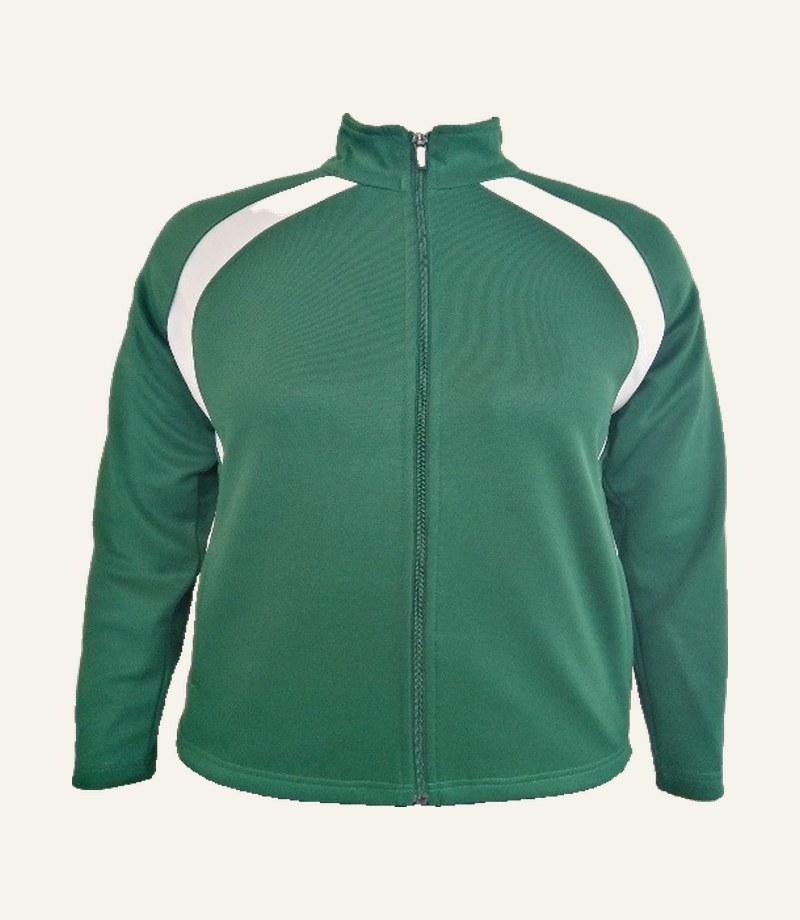
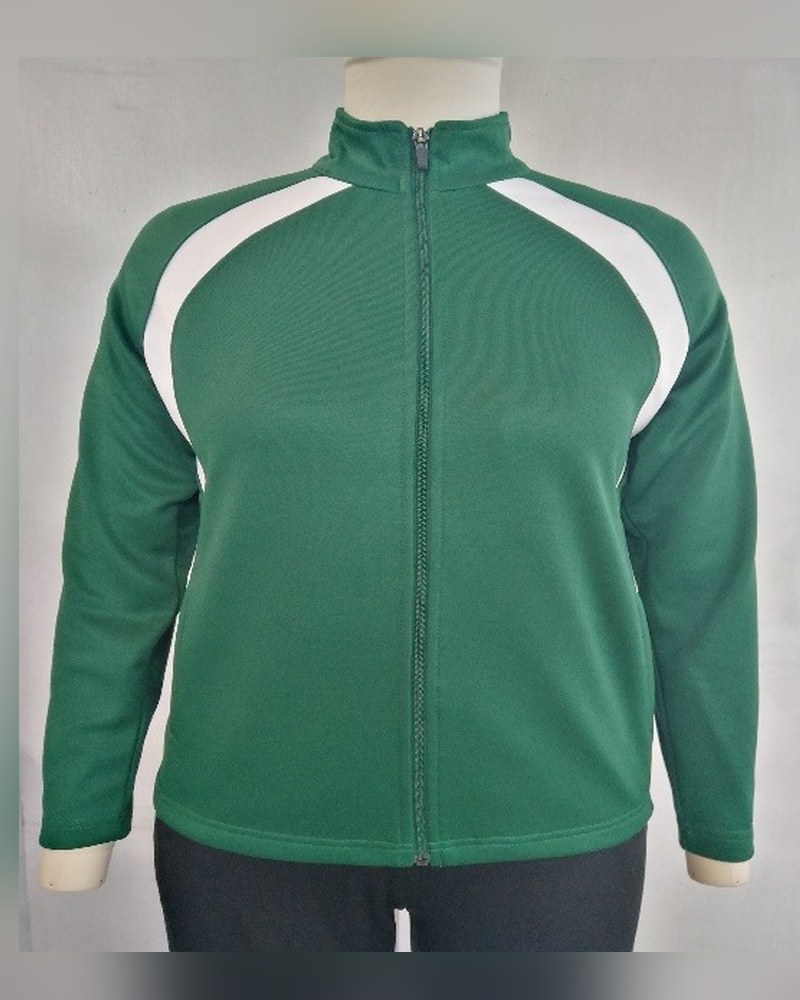
Show product photos as shot in a consistent 4:5 frame instead of cut-outs

diff --git a/products.html b/products.html
@@ -78,26 +78,26 @@
       <button class="fbtn" data-f="wovens">Light wovens</button>
     </div>
     <div class="pgrid rv" id="pgrid">
-      <div class="pcard" data-cat="polos"><div class="pimg"><img src="images/product-01.jpg" width="800" height="920" alt="Tropical print polo" data-cap="Tropical print polo" loading="lazy" decoding="async"></div><h3>Tropical print polo</h3><small>Polos</small></div>
-      <div class="pcard" data-cat="tops"><div class="pimg"><img src="images/product-02.jpg" width="800" height="920" alt="V-neck tee" data-cap="V-neck tee" loading="lazy" decoding="async"></div><h3>V-neck tee</h3><small>Tops & tees</small></div>
-      <div class="pcard" data-cat="fleece"><div class="pimg"><img src="images/product-03.jpg" width="800" height="920" alt="Full-zip training jacket" data-cap="Full-zip training jacket" loading="lazy" decoding="async"></div><h3>Full-zip training jacket</h3><small>Fleece & outerwear</small></div>
-      <div class="pcard" data-cat="leggings"><div class="pimg"><img src="images/product-04.jpg" width="800" height="920" alt="Red training legging" data-cap="Red training legging" loading="lazy" decoding="async"></div><h3>Red training legging</h3><small>Leggings</small></div>
-      <div class="pcard" data-cat="shorts"><div class="pimg"><img src="images/product-05.jpg" width="800" height="920" alt="Mesh basketball short" data-cap="Mesh basketball short" loading="lazy" decoding="async"></div><h3>Mesh basketball short</h3><small>Shorts</small></div>
-      <div class="pcard" data-cat="swimwear"><div class="pimg"><img src="images/product-06.jpg" width="800" height="920" alt="One-piece swimsuit" data-cap="One-piece swimsuit" loading="lazy" decoding="async"></div><h3>One-piece swimsuit</h3><small>Swimwear</small></div>
-      <div class="pcard" data-cat="polos"><div class="pimg"><img src="images/product-07.jpg" width="800" height="920" alt="Navy tropical polo" data-cap="Navy tropical polo" loading="lazy" decoding="async"></div><h3>Navy tropical polo</h3><small>Polos</small></div>
-      <div class="pcard" data-cat="polos"><div class="pimg"><img src="images/product-08.jpg" width="800" height="920" alt="Women's piqué polo" data-cap="Women's piqué polo" loading="lazy" decoding="async"></div><h3>Women's piqué polo</h3><small>Polos</small></div>
-      <div class="pcard" data-cat="polos"><div class="pimg"><img src="images/product-09.jpg" width="800" height="920" alt="Heather jersey polo" data-cap="Heather jersey polo" loading="lazy" decoding="async"></div><h3>Heather jersey polo</h3><small>Polos</small></div>
-      <div class="pcard" data-cat="tops"><div class="pimg"><img src="images/product-10.jpg" width="800" height="920" alt="Raglan tee" data-cap="Raglan tee" loading="lazy" decoding="async"></div><h3>Raglan tee</h3><small>Tops & tees</small></div>
-      <div class="pcard" data-cat="tops"><div class="pimg"><img src="images/product-11.jpg" width="800" height="920" alt="Henley pullover" data-cap="Henley pullover" loading="lazy" decoding="async"></div><h3>Henley pullover</h3><small>Tops & tees</small></div>
-      <div class="pcard" data-cat="fleece"><div class="pimg"><img src="images/product-12.jpg" width="800" height="920" alt="Quarter-zip sweatshirt" data-cap="Quarter-zip sweatshirt" loading="lazy" decoding="async"></div><h3>Quarter-zip sweatshirt</h3><small>Fleece & outerwear</small></div>
-      <div class="pcard" data-cat="fleece"><div class="pimg"><img src="images/product-13.jpg" width="800" height="920" alt="Track jacket" data-cap="Track jacket" loading="lazy" decoding="async"></div><h3>Track jacket</h3><small>Fleece & outerwear</small></div>
-      <div class="pcard" data-cat="fleece"><div class="pimg"><img src="images/product-14.jpg" width="800" height="920" alt="Sherpa quarter-zip" data-cap="Sherpa quarter-zip" loading="lazy" decoding="async"></div><h3>Sherpa quarter-zip</h3><small>Fleece & outerwear</small></div>
-      <div class="pcard" data-cat="leggings"><div class="pimg"><img src="images/product-15.jpg" width="800" height="920" alt="Printed capri legging" data-cap="Printed capri legging" loading="lazy" decoding="async"></div><h3>Printed capri legging</h3><small>Leggings</small></div>
-      <div class="pcard" data-cat="leggings"><div class="pimg"><img src="images/product-16.jpg" width="800" height="920" alt="Heather legging" data-cap="Heather legging" loading="lazy" decoding="async"></div><h3>Heather legging</h3><small>Leggings</small></div>
-      <div class="pcard" data-cat="shorts"><div class="pimg"><img src="images/product-17.jpg" width="800" height="920" alt="Printed training short" data-cap="Printed training short" loading="lazy" decoding="async"></div><h3>Printed training short</h3><small>Shorts</small></div>
-      <div class="pcard" data-cat="swimwear"><div class="pimg"><img src="images/product-18.jpg" width="800" height="920" alt="Printed rash guard" data-cap="Printed rash guard" loading="lazy" decoding="async"></div><h3>Printed rash guard</h3><small>Swimwear</small></div>
-      <div class="pcard" data-cat="wovens"><div class="pimg"><img src="images/product-19.jpg" width="800" height="920" alt="Short-sleeve woven shirt" data-cap="Short-sleeve woven shirt" loading="lazy" decoding="async"></div><h3>Short-sleeve woven shirt</h3><small>Light wovens</small></div>
-      <div class="pcard" data-cat="wovens"><div class="pimg"><img src="images/product-20.jpg" width="800" height="920" alt="Woven short" data-cap="Woven short" loading="lazy" decoding="async"></div><h3>Woven short</h3><small>Light wovens</small></div>
+      <div class="pcard" data-cat="polos"><div class="pimg"><img src="images/product-01.jpg" width="800" height="1000" alt="Tropical print polo" data-cap="Tropical print polo" loading="lazy" decoding="async"></div><h3>Tropical print polo</h3><small>Polos</small></div>
+      <div class="pcard" data-cat="tops"><div class="pimg"><img src="images/product-02.jpg" width="800" height="1000" alt="V-neck tee" data-cap="V-neck tee" loading="lazy" decoding="async"></div><h3>V-neck tee</h3><small>Tops & tees</small></div>
+      <div class="pcard" data-cat="fleece"><div class="pimg"><img src="images/product-03.jpg" width="800" height="1000" alt="Full-zip training jacket" data-cap="Full-zip training jacket" loading="lazy" decoding="async"></div><h3>Full-zip training jacket</h3><small>Fleece & outerwear</small></div>
+      <div class="pcard" data-cat="leggings"><div class="pimg"><img src="images/product-04.jpg" width="800" height="1000" alt="Red training legging" data-cap="Red training legging" loading="lazy" decoding="async"></div><h3>Red training legging</h3><small>Leggings</small></div>
+      <div class="pcard" data-cat="shorts"><div class="pimg"><img src="images/product-05.jpg" width="800" height="1000" alt="Mesh basketball short" data-cap="Mesh basketball short" loading="lazy" decoding="async"></div><h3>Mesh basketball short</h3><small>Shorts</small></div>
+      <div class="pcard" data-cat="swimwear"><div class="pimg"><img src="images/product-06.jpg" width="800" height="1000" alt="One-piece swimsuit" data-cap="One-piece swimsuit" loading="lazy" decoding="async"></div><h3>One-piece swimsuit</h3><small>Swimwear</small></div>
+      <div class="pcard" data-cat="polos"><div class="pimg"><img src="images/product-07.jpg" width="800" height="1000" alt="Navy tropical polo" data-cap="Navy tropical polo" loading="lazy" decoding="async"></div><h3>Navy tropical polo</h3><small>Polos</small></div>
+      <div class="pcard" data-cat="polos"><div class="pimg"><img src="images/product-08.jpg" width="800" height="1000" alt="Women's piqué polo" data-cap="Women's piqué polo" loading="lazy" decoding="async"></div><h3>Women's piqué polo</h3><small>Polos</small></div>
+      <div class="pcard" data-cat="polos"><div class="pimg"><img src="images/product-09.jpg" width="800" height="1000" alt="Heather jersey polo" data-cap="Heather jersey polo" loading="lazy" decoding="async"></div><h3>Heather jersey polo</h3><small>Polos</small></div>
+      <div class="pcard" data-cat="tops"><div class="pimg"><img src="images/product-10.jpg" width="800" height="1000" alt="Raglan tee" data-cap="Raglan tee" loading="lazy" decoding="async"></div><h3>Raglan tee</h3><small>Tops & tees</small></div>
+      <div class="pcard" data-cat="tops"><div class="pimg"><img src="images/product-11.jpg" width="800" height="1000" alt="Henley pullover" data-cap="Henley pullover" loading="lazy" decoding="async"></div><h3>Henley pullover</h3><small>Tops & tees</small></div>
+      <div class="pcard" data-cat="fleece"><div class="pimg"><img src="images/product-12.jpg" width="800" height="1000" alt="Quarter-zip sweatshirt" data-cap="Quarter-zip sweatshirt" loading="lazy" decoding="async"></div><h3>Quarter-zip sweatshirt</h3><small>Fleece & outerwear</small></div>
+      <div class="pcard" data-cat="fleece"><div class="pimg"><img src="images/product-13.jpg" width="800" height="1000" alt="Track jacket" data-cap="Track jacket" loading="lazy" decoding="async"></div><h3>Track jacket</h3><small>Fleece & outerwear</small></div>
+      <div class="pcard" data-cat="fleece"><div class="pimg"><img src="images/product-14.jpg" width="800" height="1000" alt="Sherpa quarter-zip" data-cap="Sherpa quarter-zip" loading="lazy" decoding="async"></div><h3>Sherpa quarter-zip</h3><small>Fleece & outerwear</small></div>
+      <div class="pcard" data-cat="leggings"><div class="pimg"><img src="images/product-15.jpg" width="800" height="1000" alt="Printed capri legging" data-cap="Printed capri legging" loading="lazy" decoding="async"></div><h3>Printed capri legging</h3><small>Leggings</small></div>
+      <div class="pcard" data-cat="leggings"><div class="pimg"><img src="images/product-16.jpg" width="800" height="1000" alt="Heather legging" data-cap="Heather legging" loading="lazy" decoding="async"></div><h3>Heather legging</h3><small>Leggings</small></div>
+      <div class="pcard" data-cat="shorts"><div class="pimg"><img src="images/product-17.jpg" width="800" height="1000" alt="Printed training short" data-cap="Printed training short" loading="lazy" decoding="async"></div><h3>Printed training short</h3><small>Shorts</small></div>
+      <div class="pcard" data-cat="swimwear"><div class="pimg"><img src="images/product-18.jpg" width="800" height="1000" alt="Printed rash guard" data-cap="Printed rash guard" loading="lazy" decoding="async"></div><h3>Printed rash guard</h3><small>Swimwear</small></div>
+      <div class="pcard" data-cat="wovens"><div class="pimg"><img src="images/product-19.jpg" width="800" height="1000" alt="Short-sleeve woven shirt" data-cap="Short-sleeve woven shirt" loading="lazy" decoding="async"></div><h3>Short-sleeve woven shirt</h3><small>Light wovens</small></div>
+      <div class="pcard" data-cat="wovens"><div class="pimg"><img src="images/product-20.jpg" width="800" height="1000" alt="Woven short" data-cap="Woven short" loading="lazy" decoding="async"></div><h3>Woven short</h3><small>Light wovens</small></div>
     </div>
     <p class="prod-foot">Program references and buyer names are shared privately. Send a tech pack and we'll confirm construction, fabric sourcing and target FOB. <a href="contact.html"><b>Request a quote</b></a>.</p>
   </div>

diff --git a/index.html b/index.html
@@ -183,12 +183,12 @@
       <h2>What comes off the lines.</h2>
     </div>
     <div class="prow rv">
-      <figure><div class="pimg"><img src="images/product-01.jpg" width="800" height="920" alt="Tropical print polo" data-cap="Tropical print polo" loading="lazy" decoding="async"></div><figcaption class="cap">Tropical print polo</figcaption></figure>
-      <figure><div class="pimg"><img src="images/product-02.jpg" width="800" height="920" alt="V-neck tee" data-cap="V-neck tee" loading="lazy" decoding="async"></div><figcaption class="cap">V-neck tee</figcaption></figure>
-      <figure><div class="pimg"><img src="images/product-03.jpg" width="800" height="920" alt="Full-zip training jacket" data-cap="Full-zip training jacket" loading="lazy" decoding="async"></div><figcaption class="cap">Full-zip training jacket</figcaption></figure>
-      <figure><div class="pimg"><img src="images/product-04.jpg" width="800" height="920" alt="Red training legging" data-cap="Red training legging" loading="lazy" decoding="async"></div><figcaption class="cap">Red training legging</figcaption></figure>
-      <figure><div class="pimg"><img src="images/product-05.jpg" width="800" height="920" alt="Mesh basketball short" data-cap="Mesh basketball short" loading="lazy" decoding="async"></div><figcaption class="cap">Mesh basketball short</figcaption></figure>
-      <figure><div class="pimg"><img src="images/product-06.jpg" width="800" height="920" alt="One-piece swimsuit" data-cap="One-piece swimsuit" loading="lazy" decoding="async"></div><figcaption class="cap">One-piece swimsuit</figcaption></figure>
+      <figure><div class="pimg"><img src="images/product-01.jpg" width="800" height="1000" alt="Tropical print polo" data-cap="Tropical print polo" loading="lazy" decoding="async"></div><figcaption class="cap">Tropical print polo</figcaption></figure>
+      <figure><div class="pimg"><img src="images/product-02.jpg" width="800" height="1000" alt="V-neck tee" data-cap="V-neck tee" loading="lazy" decoding="async"></div><figcaption class="cap">V-neck tee</figcaption></figure>
+      <figure><div class="pimg"><img src="images/product-03.jpg" width="800" height="1000" alt="Full-zip training jacket" data-cap="Full-zip training jacket" loading="lazy" decoding="async"></div><figcaption class="cap">Full-zip training jacket</figcaption></figure>
+      <figure><div class="pimg"><img src="images/product-04.jpg" width="800" height="1000" alt="Red training legging" data-cap="Red training legging" loading="lazy" decoding="async"></div><figcaption class="cap">Red training legging</figcaption></figure>
+      <figure><div class="pimg"><img src="images/product-05.jpg" width="800" height="1000" alt="Mesh basketball short" data-cap="Mesh basketball short" loading="lazy" decoding="async"></div><figcaption class="cap">Mesh basketball short</figcaption></figure>
+      <figure><div class="pimg"><img src="images/product-06.jpg" width="800" height="1000" alt="One-piece swimsuit" data-cap="One-piece swimsuit" loading="lazy" decoding="async"></div><figcaption class="cap">One-piece swimsuit</figcaption></figure>
     </div>
     <p class="cats rv">Polos · Tops &amp; tees · Fleece &amp; outerwear · Leggings · Shorts · Swimwear · Light wovens</p>
     <a class="more" href="products.html">All products</a>

diff --git a/styles.css b/styles.css
@@ -201,7 +201,7 @@ figure{margin:0}
 .pgrid{display:grid;grid-template-columns:repeat(4,1fr);gap:36px 24px}
 .pcard{display:flex;flex-direction:column}
 .pcard.hide{display:none}
-.pimg{aspect-ratio:800/920;overflow:hidden;cursor:zoom-in;background:var(--off)}
+.pimg{aspect-ratio:4/5;overflow:hidden;cursor:zoom-in;background:var(--off)}
 .pimg img{width:100%;height:100%;object-fit:cover}
 .pcard h3{font-size:16px;margin-top:14px}
 .pcard small{margin-top:4px}
